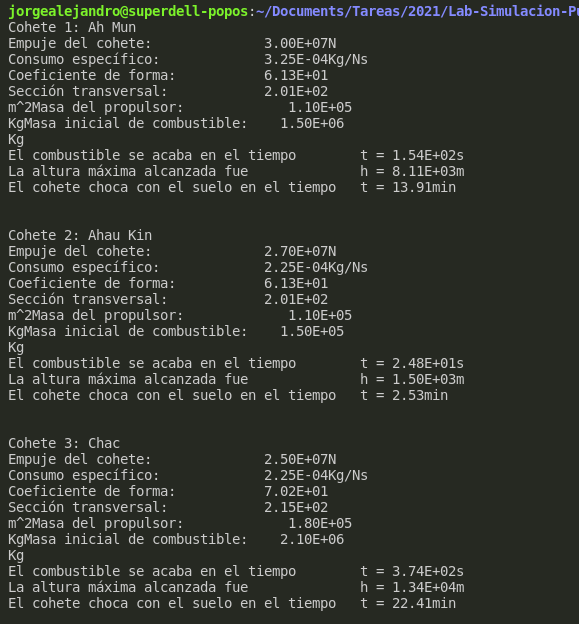
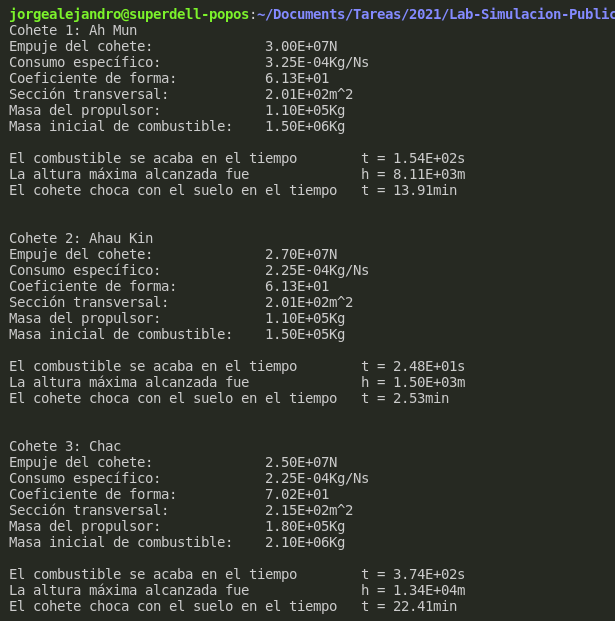
Llega

Changed region(s): [[0.0, 0.0, 1.0, 0.3366], [0.0, 0.7037, 0.8083, 1.0], [0.0, 0.3671, 0.8083, 0.6731]]

diff --git a/Reportes/Examen-Final/C/AdastraReport/AdastraReport.c b/Reportes/Examen-Final/C/AdastraReport/AdastraReport.c
@@ -182,9 +182,9 @@ void PrintData(int rocket){                     //Imprime los datos por cohete
     printf("Empuje del cohete:              %.2EN\n",E_o[rocket]);
     printf("Consumo específico:             %.2EKg/Ns\n",TSFC[rocket]);
     printf("Coeficiente de forma:           %.2E\n",CD[rocket]);
-    printf("Sección transversal:            %.2E\nm^2",A[rocket]);
-    printf("Masa del propulsor:             %.2E\nKg",M0[rocket]);
-    printf("Masa inicial de combustible:    %.2E\nKg",M0_fuel[rocket]);
+    printf("Sección transversal:            %.2Em^2\n",A[rocket]);
+    printf("Masa del propulsor:             %.2EKg\n",M0[rocket]);
+    printf("Masa inicial de combustible:    %.2EKg\n",M0_fuel[rocket]);
 }
 
 double dv_dt(double v, double h, double t){         //Ecuacion diferencial dv/dt = esta funcion

diff --git a/Reportes/Examen-Final/README.md b/Reportes/Examen-Final/README.md
@@ -6,13 +6,13 @@ Las gráficas están [aquí](Gnuplot/)
 Para correr el código ejecutar dentro de la carpeta [AdastraReport](C/AdastraReport/):
 
 ```
-gcc AdastraReport.c  -lm -o  AdastraReport  && ./AdastraReport^C
+gcc AdastraReport.c  -lm -o  AdastraReport  && ./AdastraReport
 ```
 
 Para plotear, ejecutar el código dentro de la carpeta [Gnuplot](Gnuplot/):
 
 ```
-gcc AdastraReport.c  -lm -o  AdastraReport  && ./AdastraReport^C
+gcc AdastraReport.c  -lm -o  AdastraReport  && ./AdastraReport
 ```
 
 La salida debe verse así:
